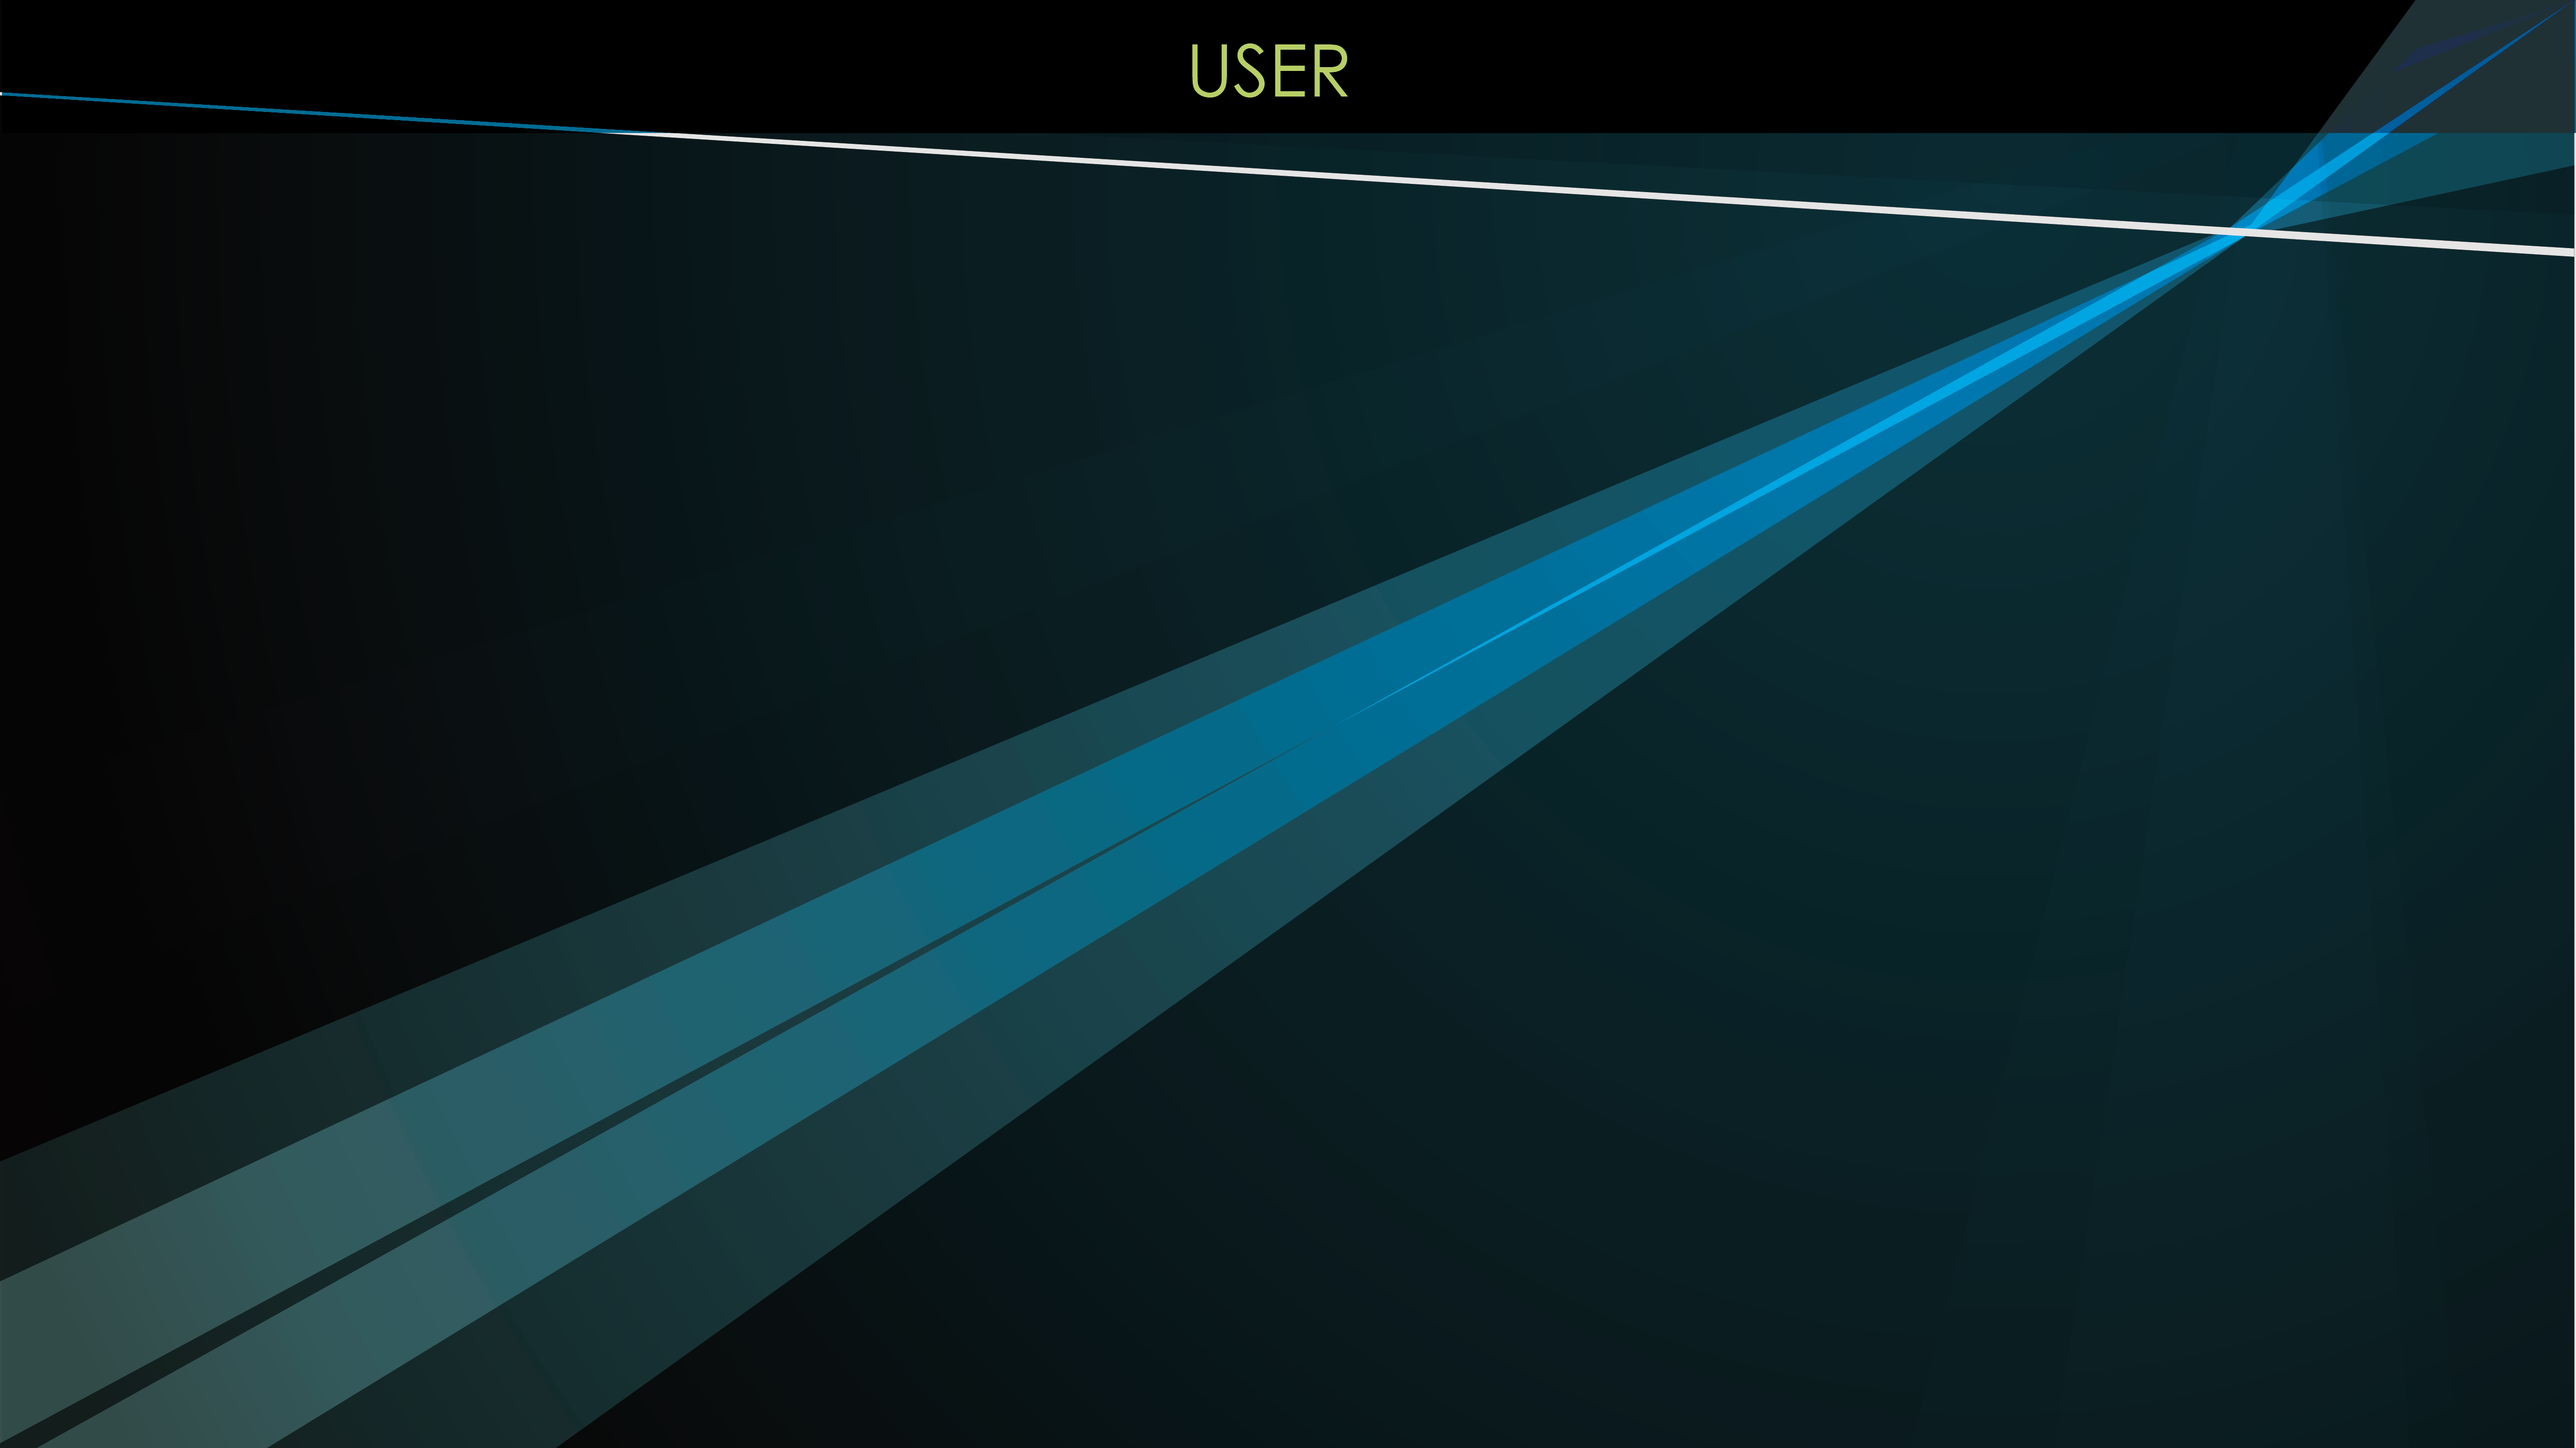
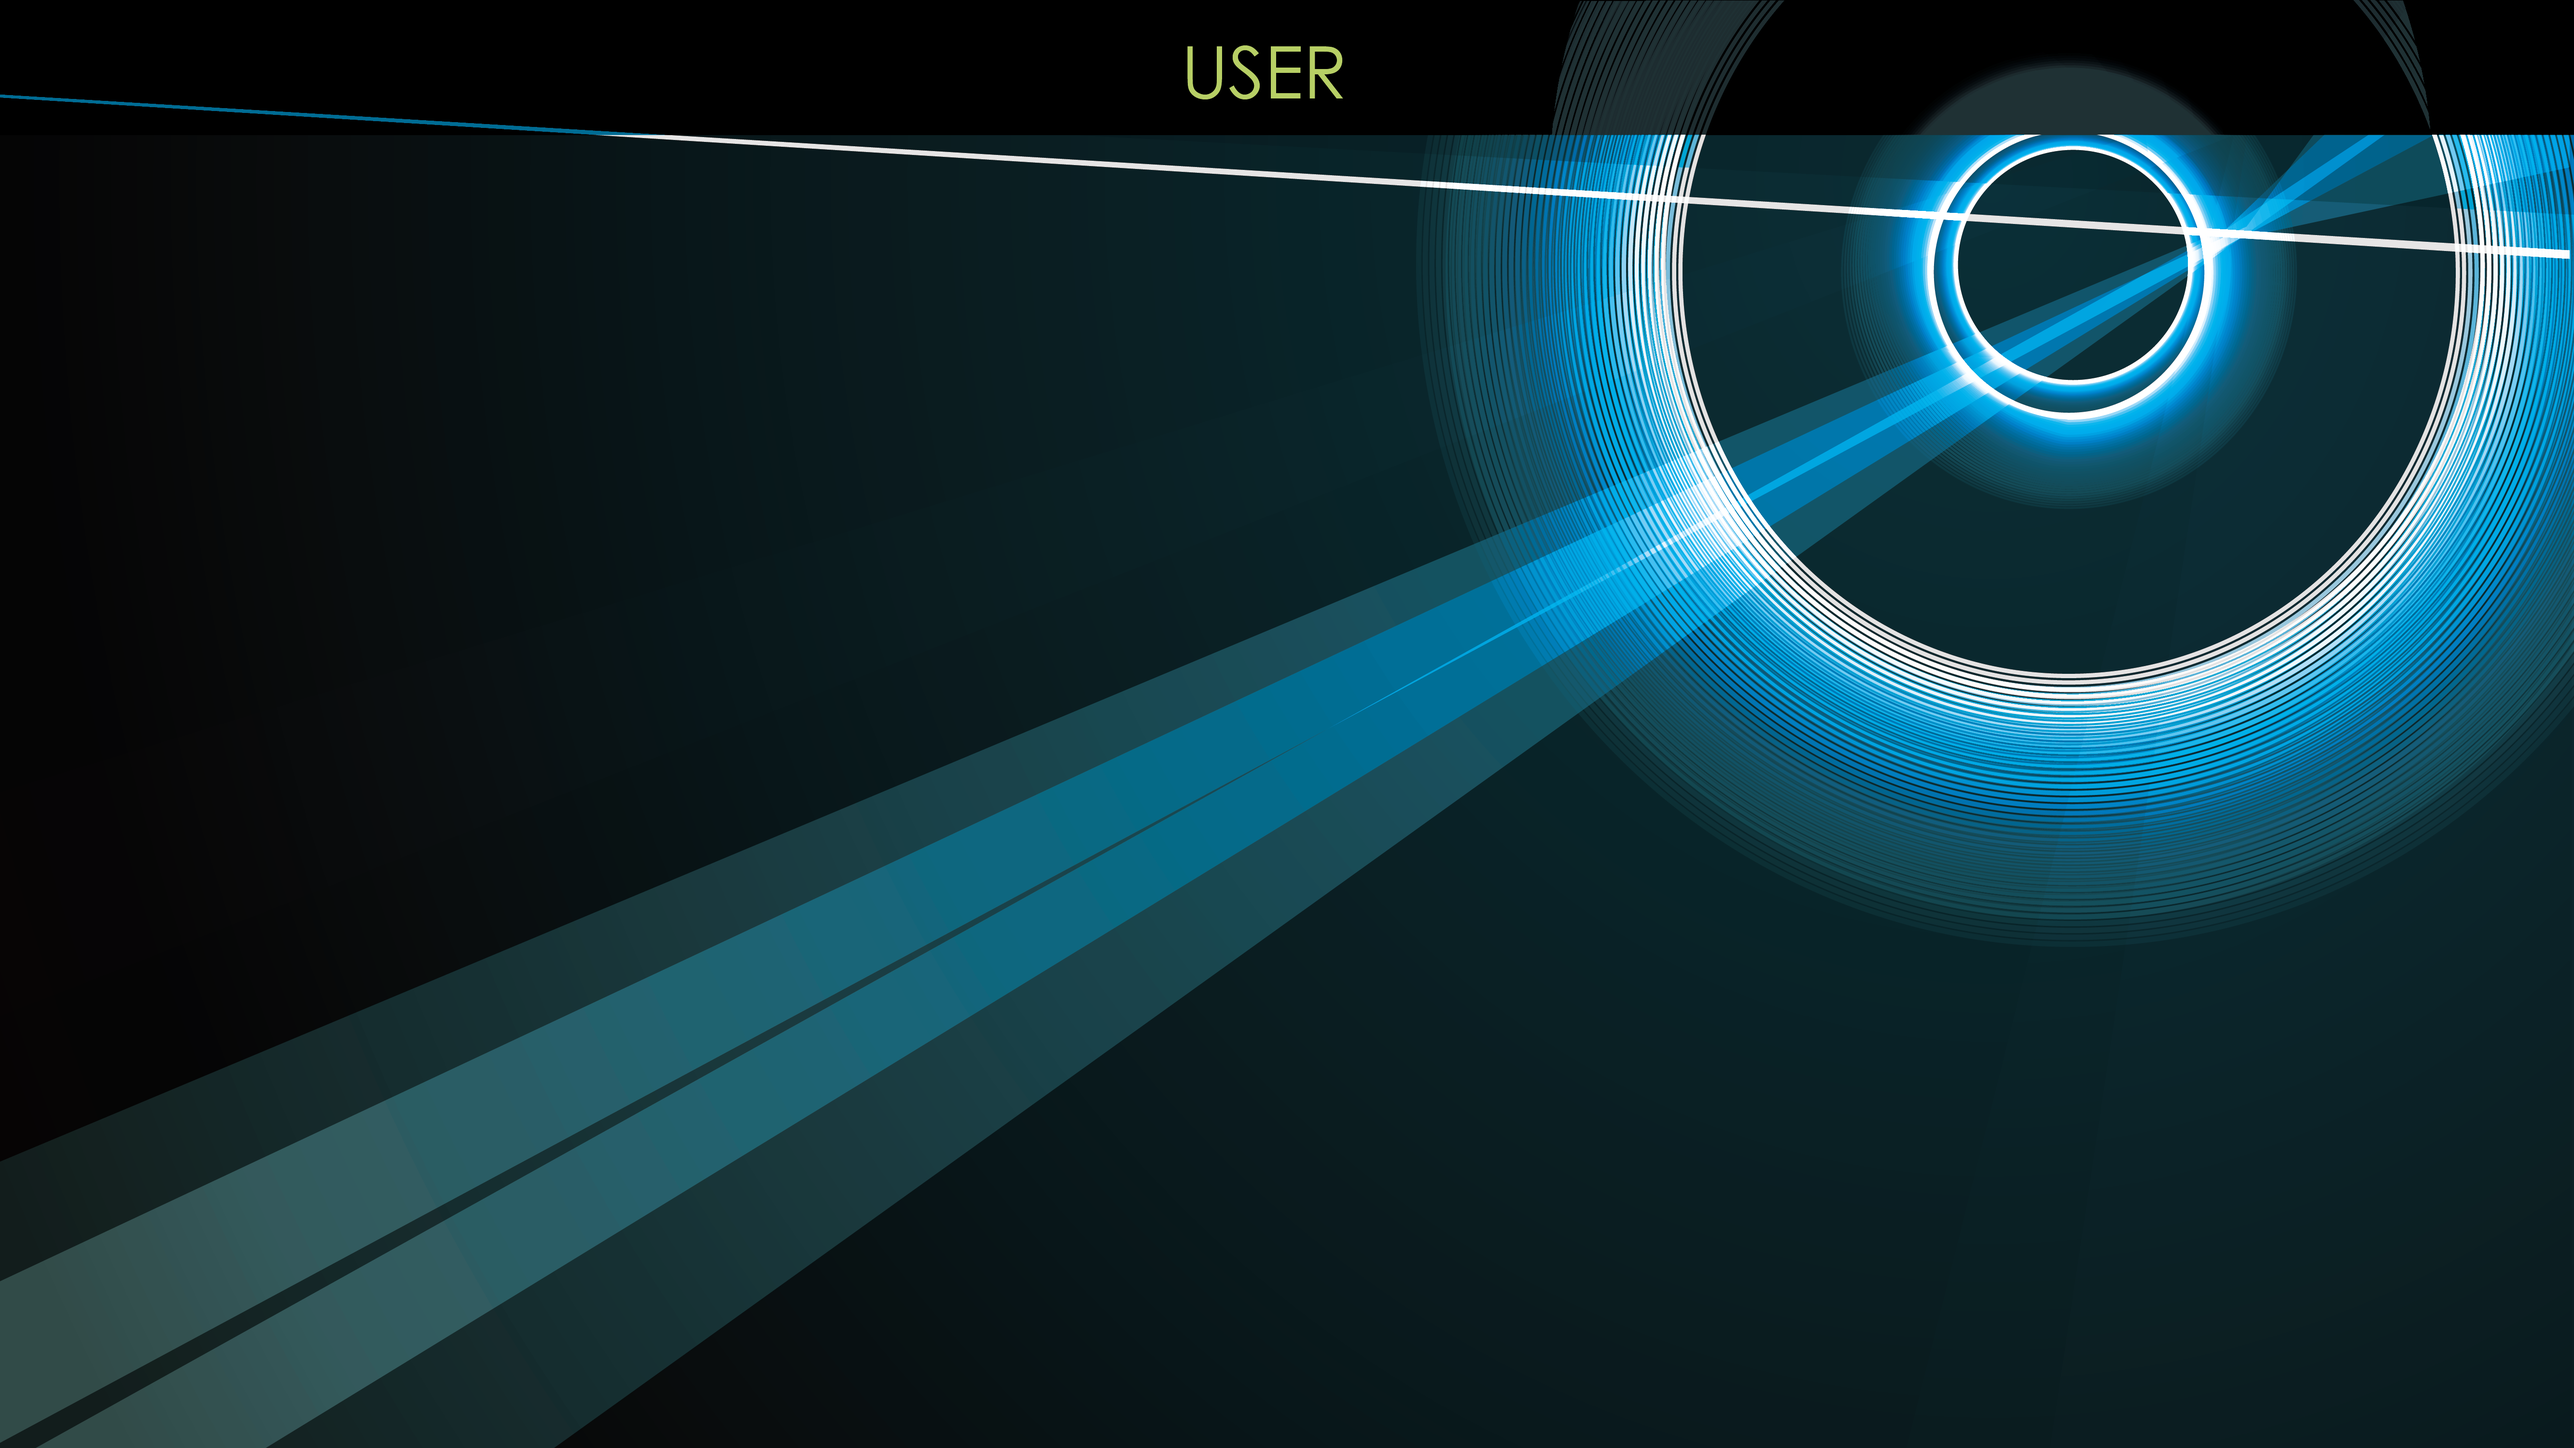
Add resizeable

Changed region(s): [[0.5603, 0.0, 1.0, 1.0], [0.2801, 0.031, 0.5292, 0.124], [0.0, 0.062, 0.2179, 0.093]]

diff --git a/FlyingAnalyzeSystem/AR.Drone.WinApp/MyUserControl/PasswordTexBox.xaml b/FlyingAnalyzeSystem/AR.Drone.WinApp/MyUserControl/PasswordTexBox.xaml
@@ -16,37 +16,8 @@
                 </Grid.ColumnDefinitions>
 
                 <Image Margin="10,5,10,5" x:Name="_icon" Stretch="Fill" Source="../Image/LoginPage/PasswordIcon.png"/>
-                <TextBox Grid.Column="1" VerticalContentAlignment="Center" BorderThickness="0" Foreground="Yellow" FontSize="20">
-                    <TextBox.Style>
-                        <Style TargetType="TextBox" xmlns:sys="clr-namespace:System;assembly=mscorlib">
-                            <Style.Resources>
-                                <VisualBrush x:Key="CueBannerBrush" AlignmentX="Left" AlignmentY="Center" Stretch="None">
-                                    <VisualBrush.Visual>
-                                        <Label Content="Password" Foreground="Yellow" VerticalContentAlignment="Center" FontSize="20" />
-                                    </VisualBrush.Visual>
-                                </VisualBrush>
-                            </Style.Resources>
-
-                            <Style.Triggers>
-                                <Trigger Property="IsFocused" Value="False">
-                                    <Setter Property="Background" Value="Transparent" />
-                                </Trigger>
-
-                                <Trigger Property="Text" Value="{x:Static sys:String.Empty}">
-                                    <Setter Property="Background" Value="{StaticResource CueBannerBrush}" />
-                                </Trigger>
-
-                                <Trigger Property="Text" Value="{x:Null}">
-                                    <Setter Property="Background" Value="{StaticResource CueBannerBrush}" />
-                                </Trigger>
-
-                                <Trigger Property="IsFocused" Value="True">
-                                    <Setter Property="Background" Value="Transparent" />
-                                </Trigger>
-                            </Style.Triggers>
-                        </Style>
-                    </TextBox.Style>
-                </TextBox>
+                <PasswordBox x:Name="_passwordBox" Background="Transparent" Grid.Column="1" VerticalContentAlignment="Center" BorderThickness="0" Foreground="Yellow" FontSize="20" LostFocus="_passwordBox_LostFocus"/>
+                <Label MouseDown="_label_MouseDown" x:Name="_label" Grid.Column="1" Content="Password" FontSize="20" Foreground="Yellow" VerticalContentAlignment="Center" />
             </Grid>
         </Grid>
     </Border>

diff --git a/FlyingAnalyzeSystem/AR.Drone.WinApp/MyUserControl/LoginPanel.xaml b/FlyingAnalyzeSystem/AR.Drone.WinApp/MyUserControl/LoginPanel.xaml
@@ -1,0 +1,16 @@
+<UserControl x:Class="AR.Drone.WinApp.MyUserControl.LoginPanel"
+             xmlns="http://schemas.microsoft.com/winfx/2006/xaml/presentation"
+             xmlns:x="http://schemas.microsoft.com/winfx/2006/xaml"
+             xmlns:mc="http://schemas.openxmlformats.org/markup-compatibility/2006" 
+             xmlns:d="http://schemas.microsoft.com/expression/blend/2008" 
+             mc:Ignorable="d" 
+             d:DesignHeight="300" d:DesignWidth="500">
+    
+    <Viewbox Stretch="Fill">
+        <Grid Width="500" Height="300">
+            <Image Stretch="Fill" Source="../Image/LoginPage/background.png"/>
+            <Image Stretch="Fill" Source="../Image/LoginPage/PCA-CIR-08.png" Opacity="0.8" Margin="243,-97,-65,97"/>
+        </Grid>
+    </Viewbox>
+    
+</UserControl>

diff --git a/FlyingAnalyzeSystem/AR.Drone.WinApp/LoginForm.Designer.cs b/FlyingAnalyzeSystem/AR.Drone.WinApp/LoginForm.Designer.cs
@@ -30,6 +30,8 @@
         {
             System.ComponentModel.ComponentResourceManager resources = new System.ComponentModel.ComponentResourceManager(typeof(LoginForm));
             this.button1 = new System.Windows.Forms.Button();
+            this.elementHost2 = new System.Windows.Forms.Integration.ElementHost();
+            this.loginPanel1 = new AR.Drone.WinApp.MyUserControl.LoginPanel();
             this.elementHost1 = new System.Windows.Forms.Integration.ElementHost();
             this.passwordTexBox1 = new AR.Drone.WinApp.MyUserControl.PasswordTexBox();
             this._accountElementHost = new System.Windows.Forms.Integration.ElementHost();
@@ -45,6 +47,17 @@
             this.button1.Text = "button1";
             this.button1.UseVisualStyleBackColor = true;
             this.button1.Click += new System.EventHandler(this.button1_Click);
+            // 
+            // elementHost2
+            // 
+            this.elementHost2.Dock = System.Windows.Forms.DockStyle.Fill;
+            this.elementHost2.Location = new System.Drawing.Point(0, 0);
+            this.elementHost2.Margin = new System.Windows.Forms.Padding(0);
+            this.elementHost2.Name = "elementHost2";
+            this.elementHost2.Size = new System.Drawing.Size(728, 388);
+            this.elementHost2.TabIndex = 5;
+            this.elementHost2.Text = "elementHost2";
+            this.elementHost2.Child = this.loginPanel1;
             // 
             // elementHost1
             // 
@@ -72,7 +85,8 @@
             this.AutoScaleMode = System.Windows.Forms.AutoScaleMode.Font;
             this.BackgroundImage = ((System.Drawing.Image)(resources.GetObject("$this.BackgroundImage")));
             this.BackgroundImageLayout = System.Windows.Forms.ImageLayout.Stretch;
-            this.ClientSize = new System.Drawing.Size(731, 470);
+            this.ClientSize = new System.Drawing.Size(728, 388);
+            this.Controls.Add(this.elementHost2);
             this.Controls.Add(this.elementHost1);
             this.Controls.Add(this._accountElementHost);
             this.Controls.Add(this.button1);
@@ -90,6 +104,8 @@
         private MyUserControl.AccountTextBox _accountTextBox;
         private System.Windows.Forms.Integration.ElementHost elementHost1;
         private MyUserControl.PasswordTexBox passwordTexBox1;
+        private System.Windows.Forms.Integration.ElementHost elementHost2;
+        private MyUserControl.LoginPanel loginPanel1;
 
 
 

diff --git a/FlyingAnalyzeSystem/AR.Drone.WinApp/MyUserControl/LoginPanel.xaml.cs b/FlyingAnalyzeSystem/AR.Drone.WinApp/MyUserControl/LoginPanel.xaml.cs
@@ -1,0 +1,27 @@
+using System;
+using System.Collections.Generic;
+using System.Linq;
+using System.Text;
+using System.Windows;
+using System.Windows.Controls;
+using System.Windows.Data;
+using System.Windows.Documents;
+using System.Windows.Input;
+using System.Windows.Media;
+using System.Windows.Media.Imaging;
+using System.Windows.Navigation;
+using System.Windows.Shapes;
+
+namespace AR.Drone.WinApp.MyUserControl
+{
+    /// <summary>
+    /// Interaction logic for LoginPanel.xaml
+    /// </summary>
+    public partial class LoginPanel : UserControl
+    {
+        public LoginPanel()
+        {
+            InitializeComponent();
+        }
+    }
+}

diff --git a/FlyingAnalyzeSystem/AR.Drone.WinApp/MyUserControl/PasswordTexBox.xaml.cs b/FlyingAnalyzeSystem/AR.Drone.WinApp/MyUserControl/PasswordTexBox.xaml.cs
@@ -23,5 +23,19 @@ namespace AR.Drone.WinApp.MyUserControl
         {
             InitializeComponent();
         }
+
+        private void _label_MouseDown(object sender, MouseButtonEventArgs e)
+        {
+            _label.Visibility = Visibility.Hidden;
+            _passwordBox.Focus();
+        }
+
+        private void _passwordBox_LostFocus(object sender, RoutedEventArgs e)
+        {
+            if (_passwordBox.Password.Length == 0)
+            {
+                _label.Visibility = Visibility.Visible;
+            }
+        }
     }
 }
